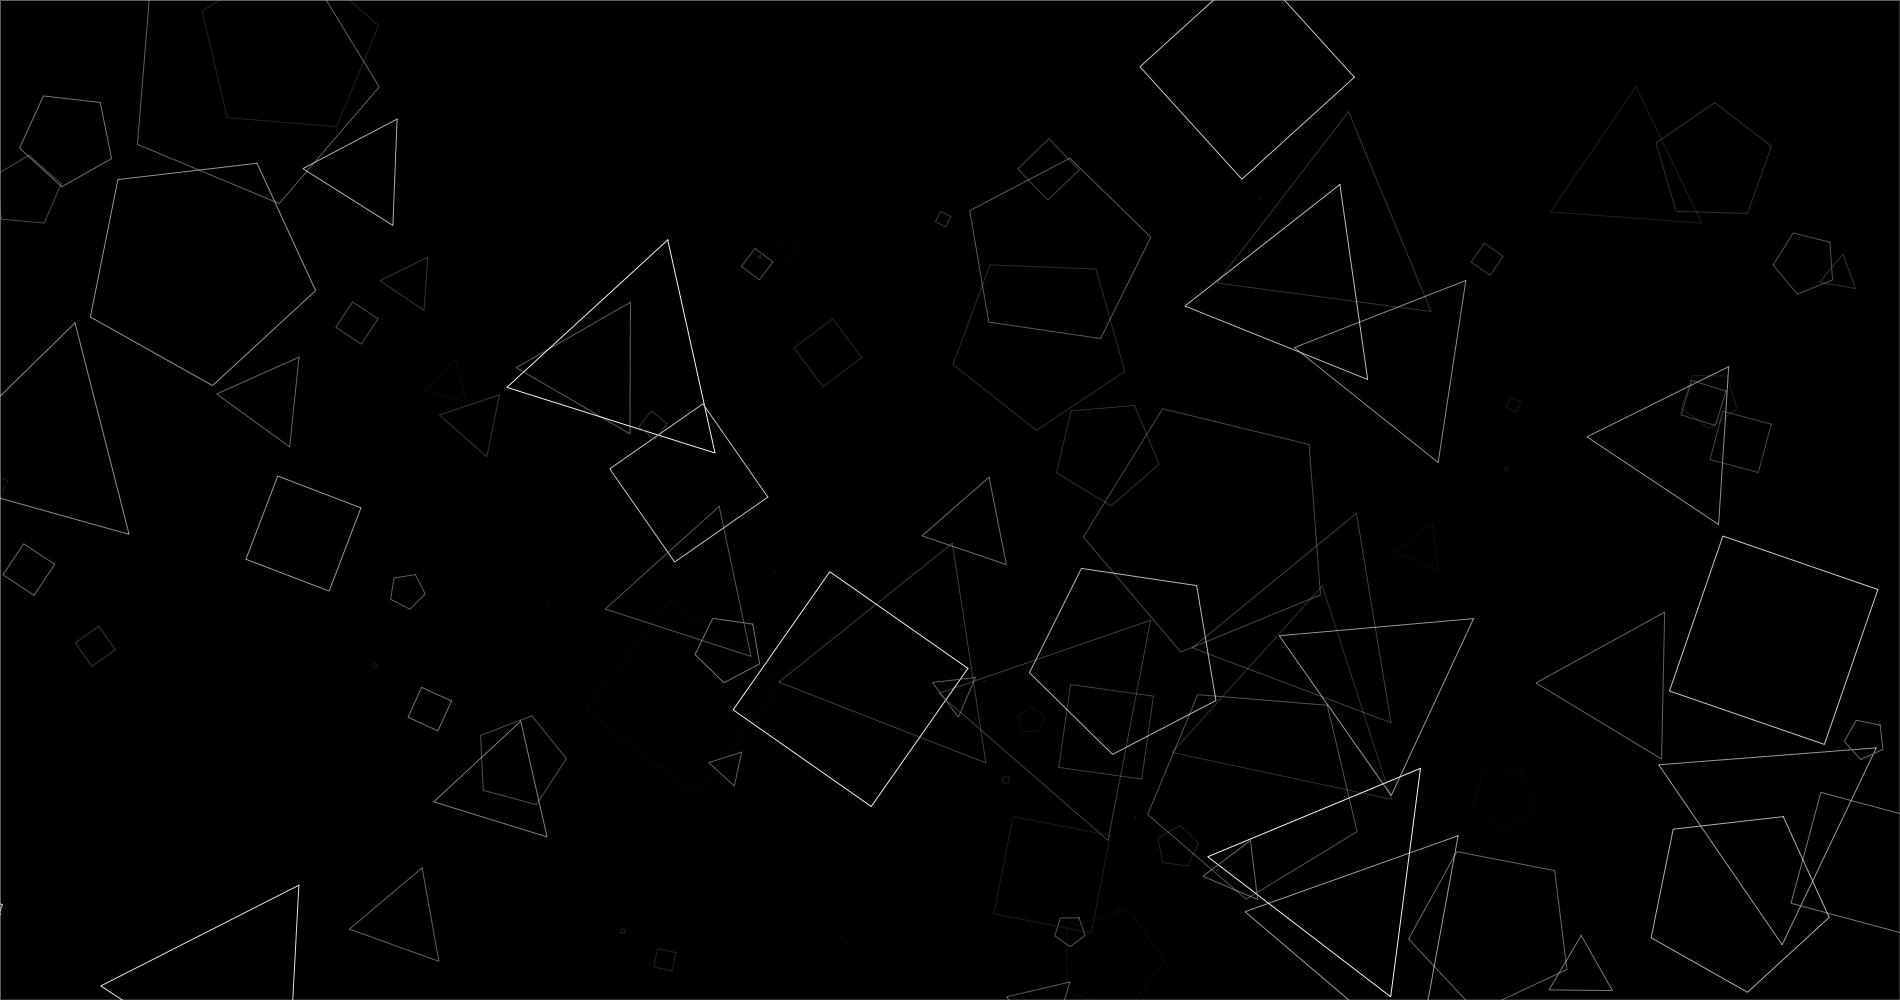
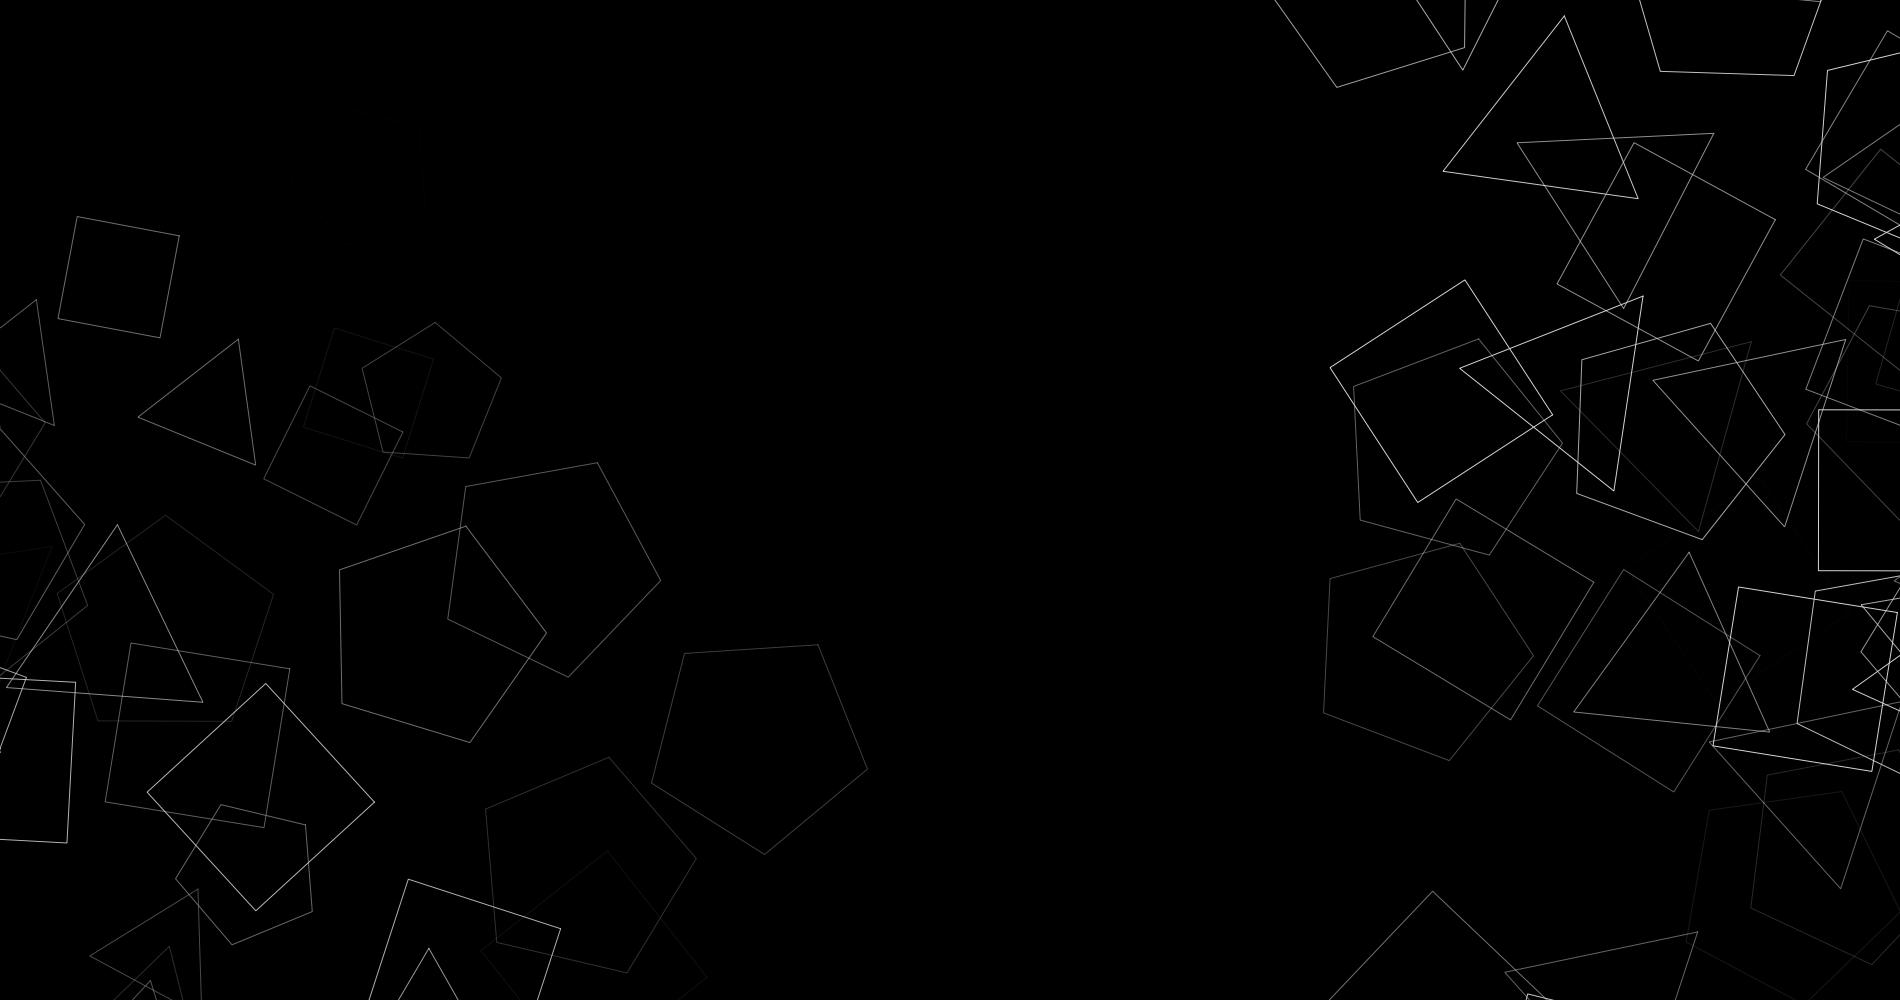
change background; lighten control menu color

diff --git a/components/ImageControls.vue b/components/ImageControls.vue
@@ -20,12 +20,12 @@
         <v-icon>mdi-tune</v-icon>
       </v-btn>
     </template>
-    <v-card max-width="300" @mouseleave="updateParams">
+    <v-card max-width="300" color="#333333" @mouseleave="updateParams">
       <v-card-text>
         <v-text-field
           v-model.number="params.iterations"
           suffix="iterations"
-          hint="High iterations will take longer to process"
+          hint="High iteration will take longer to process"
           outlined
         />
         <v-range-slider

diff --git a/layouts/default.vue b/layouts/default.vue
@@ -17,7 +17,6 @@
 <style scoped>
 .v-main {
   background-image: url('~assets/background.jpeg');
-  height: 100%;
-  width: 100vw;
+  background-size: cover;
 }
 </style>
